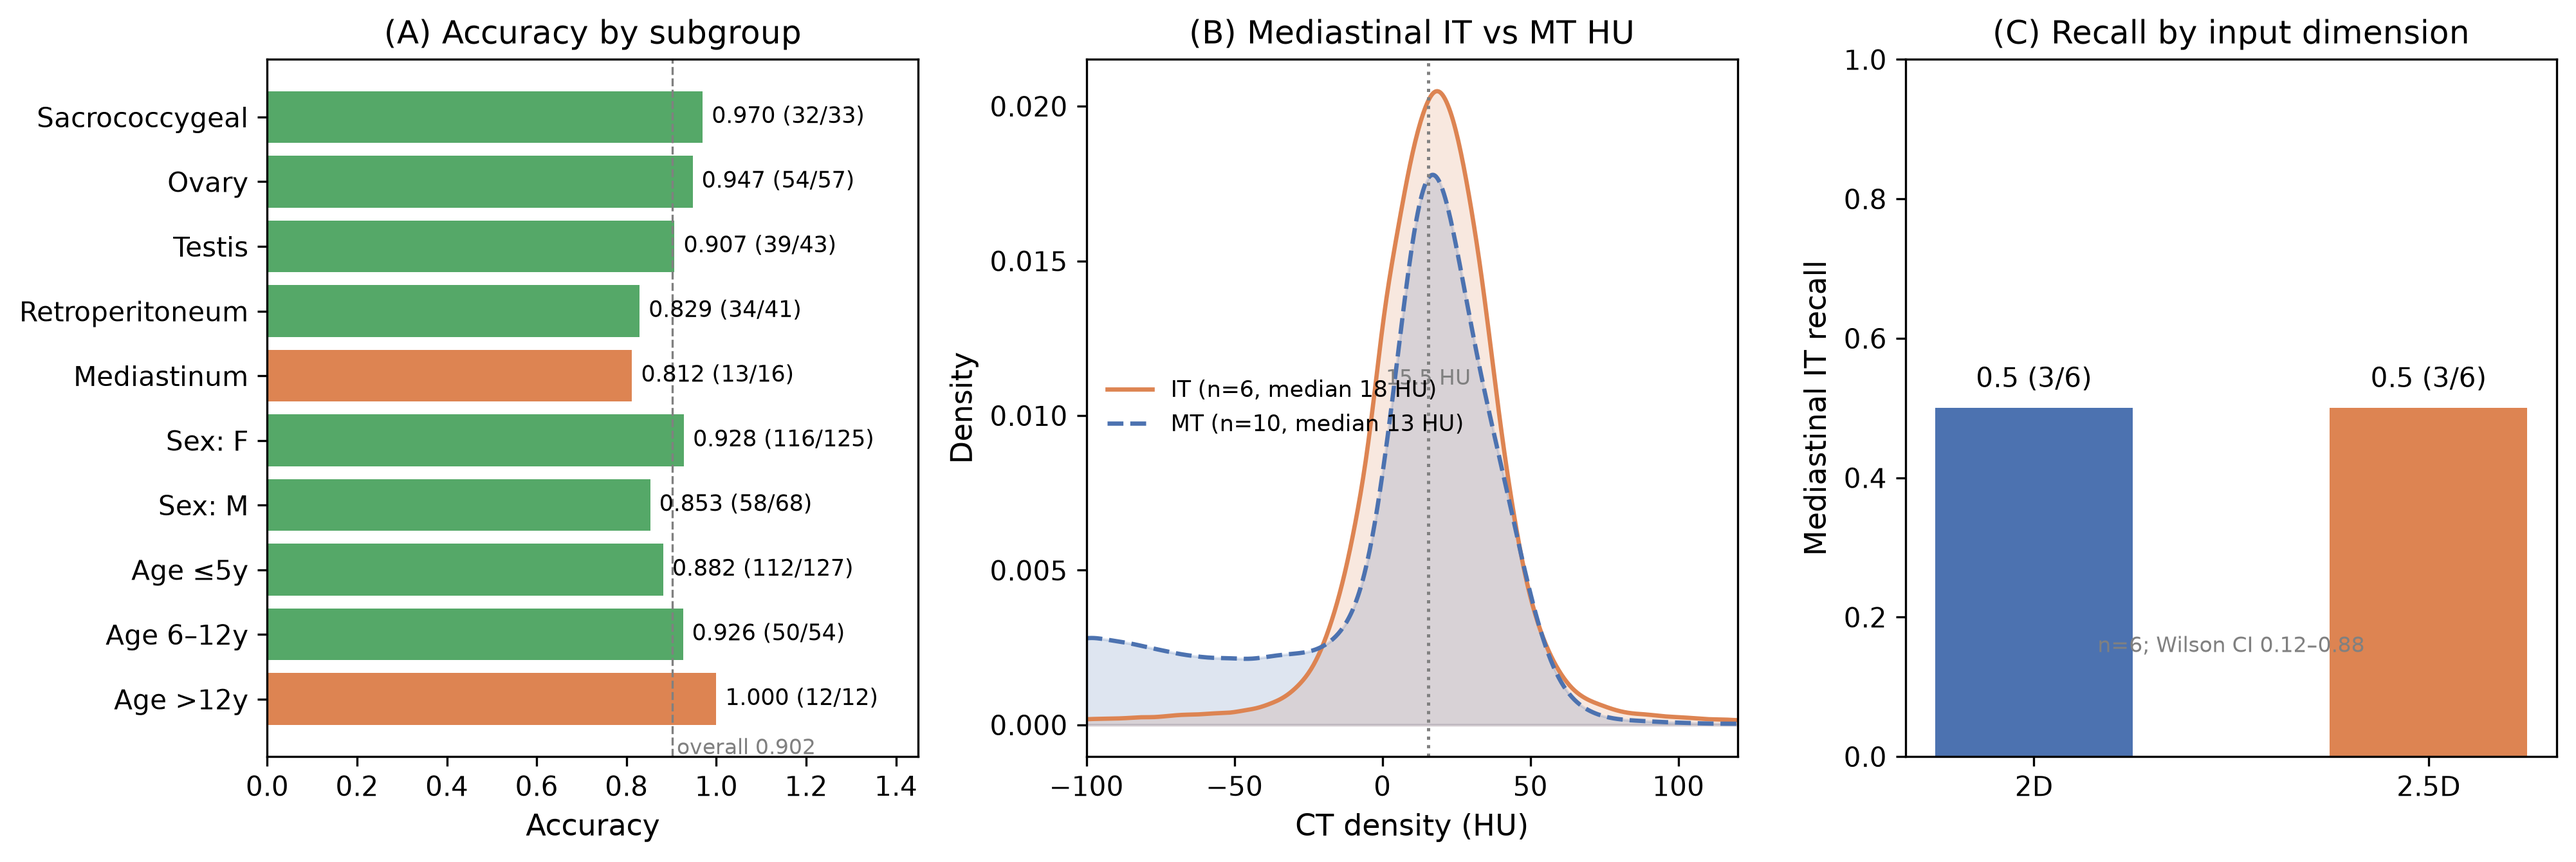
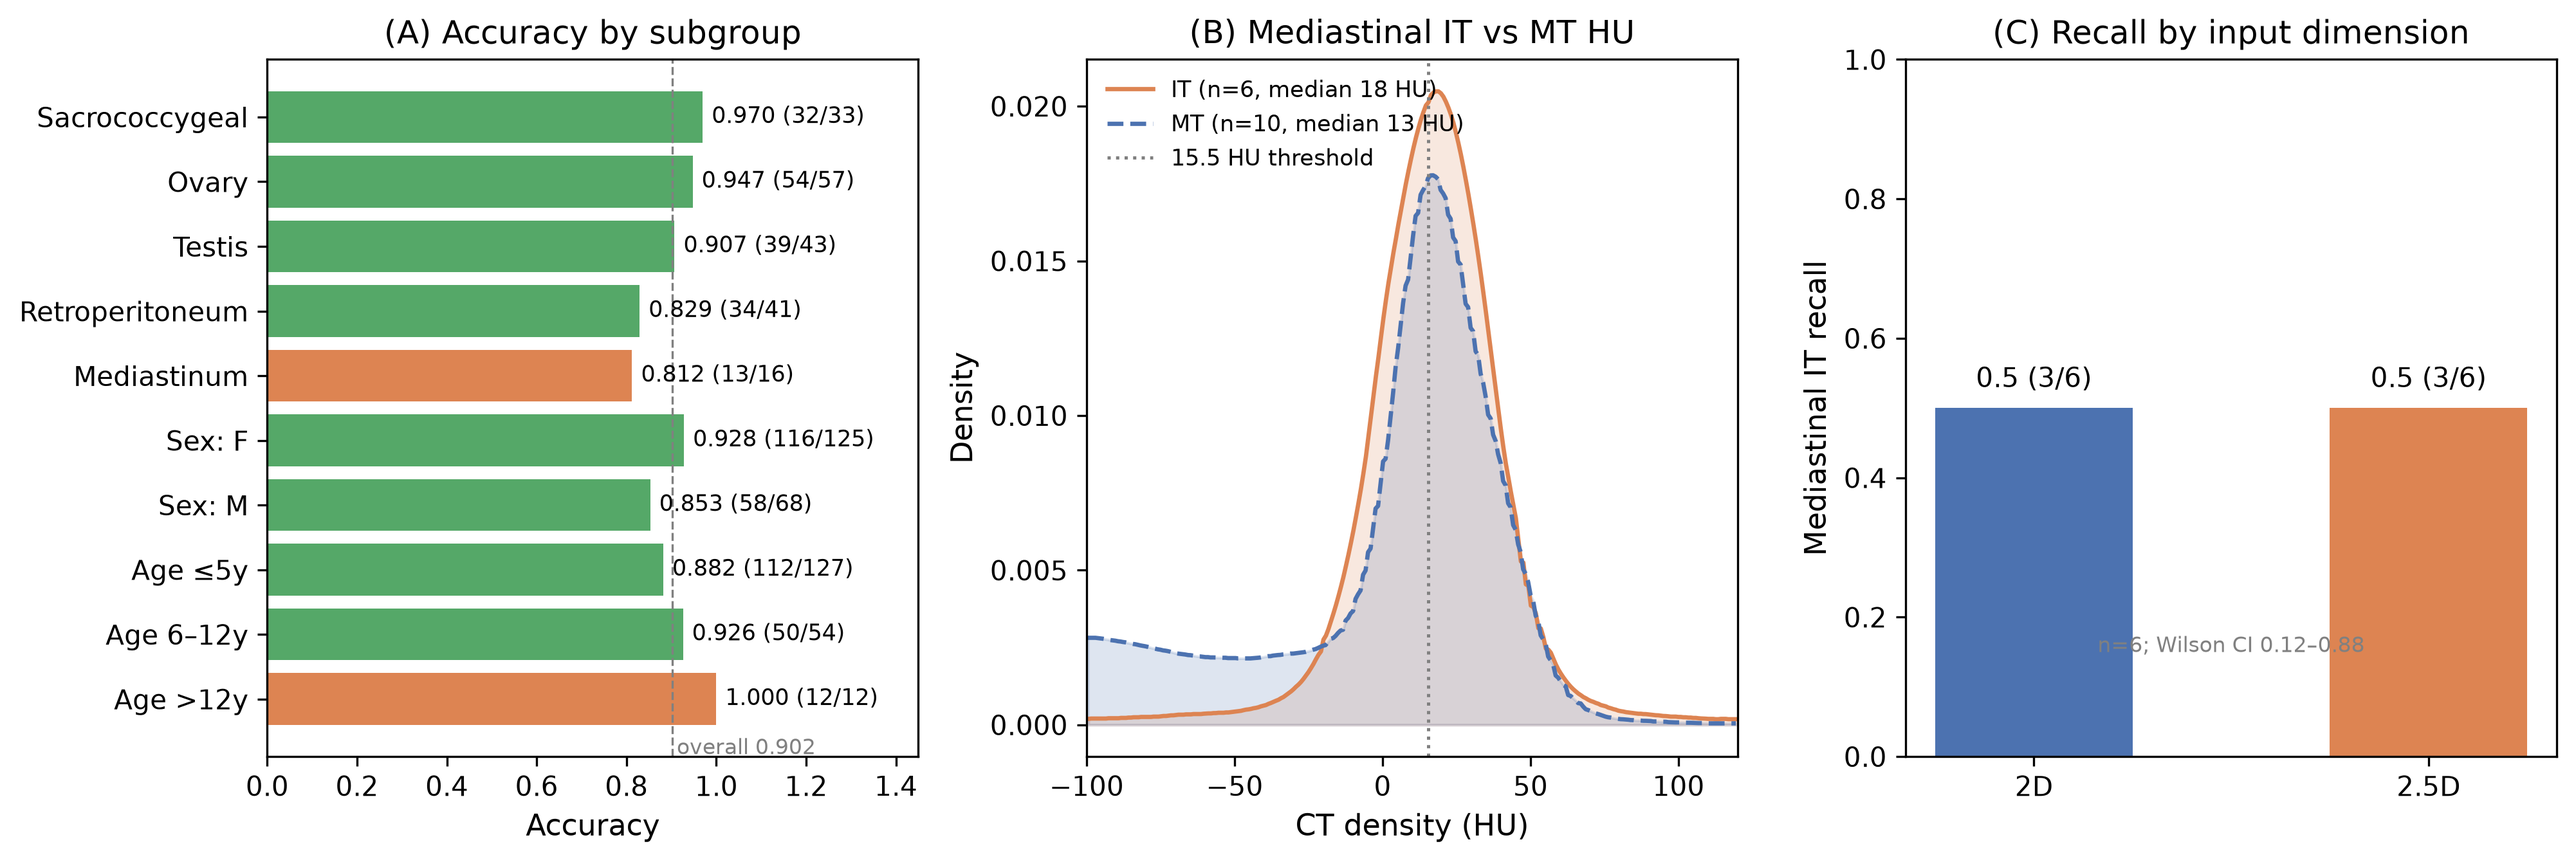
Figure 7(B/C): fix annotation overlaps
- (B) move '15.5 HU' into the legend as a third entry ('15.5 HU threshold')
  and anchor the legend upper-left; the previous standalone gray text at
  (15.5, 0.011) collided with the legend text and the KDE peak
- (C) give the 'n=6; Wilson CI' note a white bbox so it stays readable
  where it crosses the 2.5D bar
- regenerate fig7.png with the fixed layout (shipped as Figure 6 in the
  EJR submission package)

diff --git a/scripts/make_fig7_subgroup.py b/scripts/make_fig7_subgroup.py
@@ -90,12 +90,14 @@ for vox, color, lab, ls in [(it_vox, C_IT, f'IT (n=6, median {np.median(it_vox):
     k = gaussian_kde(vox[:: max(1, len(vox) // 200000)])
     ax.plot(xgrid, k(xgrid), color=color, label=lab, ls=ls, lw=1.6)
     ax.fill_between(xgrid, k(xgrid), alpha=0.18, color=color)
-ax.axvline(15.5, color='gray', ls=':', lw=1.2)
-ax.text(15.5, ax.get_ylim()[1] * 0.95 if False else 0.011, '15.5 HU', fontsize=8, color='gray', ha='center')
+ax.axvline(15.5, color='gray', ls=':', lw=1.2, label='15.5 HU threshold')
 ax.set_xlabel('CT density (HU)')
 ax.set_ylabel('Density')
 ax.set_title('(B) Mediastinal IT vs MT HU')
-ax.legend(fontsize=8.5, frameon=False)
+# legend upper-left keeps all three entries clear of the threshold line;
+# the standalone gray "15.5 HU" text was removed because it collided with
+# the legend and the KDE peak when placed at (15.5, 0.011).
+ax.legend(fontsize=8.5, frameon=False, loc='upper left')
 ax.set_xlim(-100, 120)
 
 # ---- (C) Mediastinal IT recall by dimension ----
@@ -109,7 +111,8 @@ ax.set_ylabel('Mediastinal IT recall')
 ax.set_title('(C) Recall by input dimension')
 for i, r in enumerate(recalls):
     ax.text(i, r + 0.03, f'{r:.1f} (3/6)', ha='center', fontsize=10)
-ax.text(0.5, 0.15, 'n=6; Wilson CI 0.12–0.88', ha='center', fontsize=8, color='gray')
+ax.text(0.5, 0.15, 'n=6; Wilson CI 0.12–0.88', ha='center', fontsize=8, color='gray',
+        bbox=dict(boxstyle='round,pad=0.25', facecolor='white', edgecolor='none', alpha=0.85))
 
 plt.tight_layout()
 plt.savefig(f'{OUT}/fig7.png', dpi=300, bbox_inches='tight')
